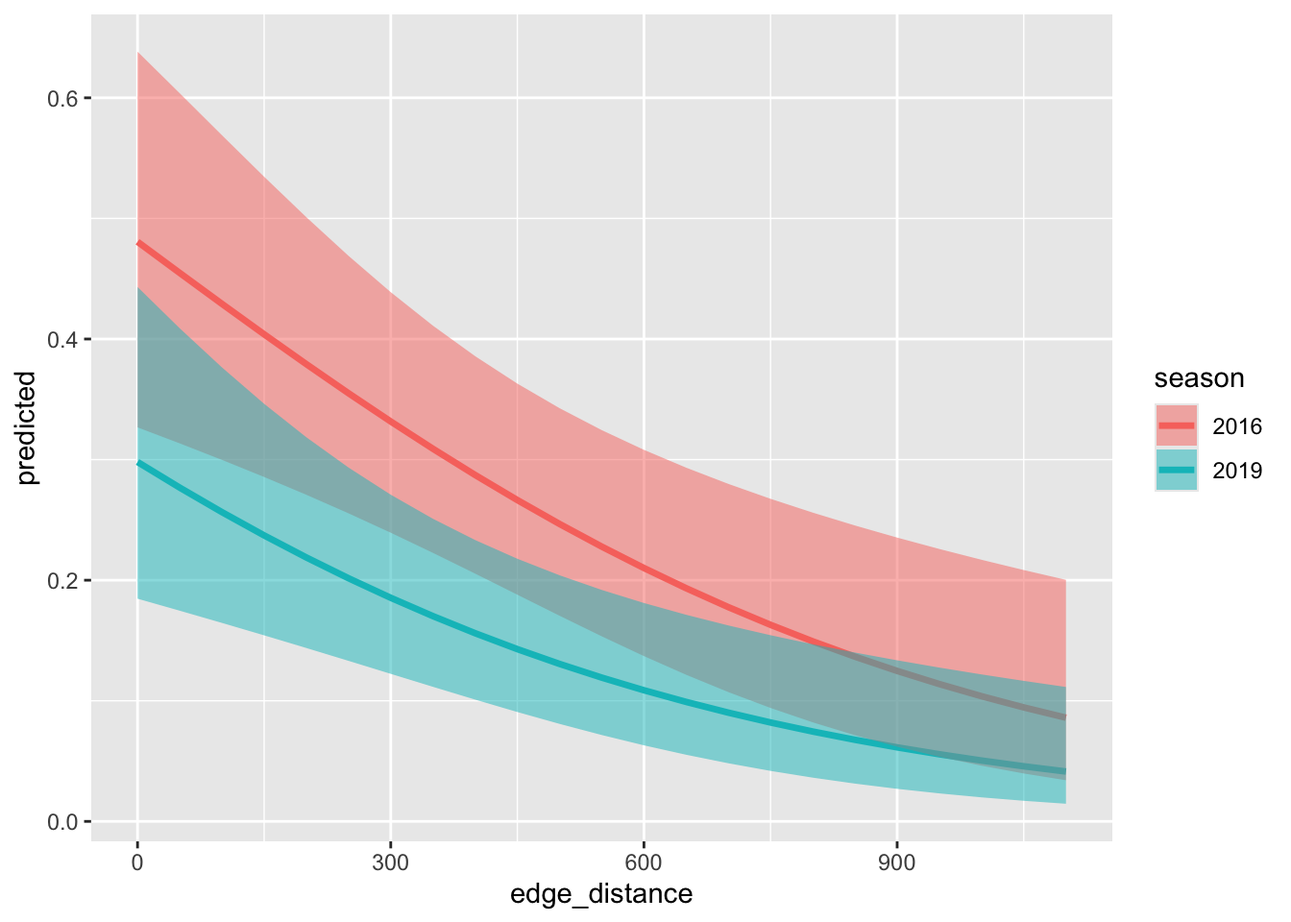
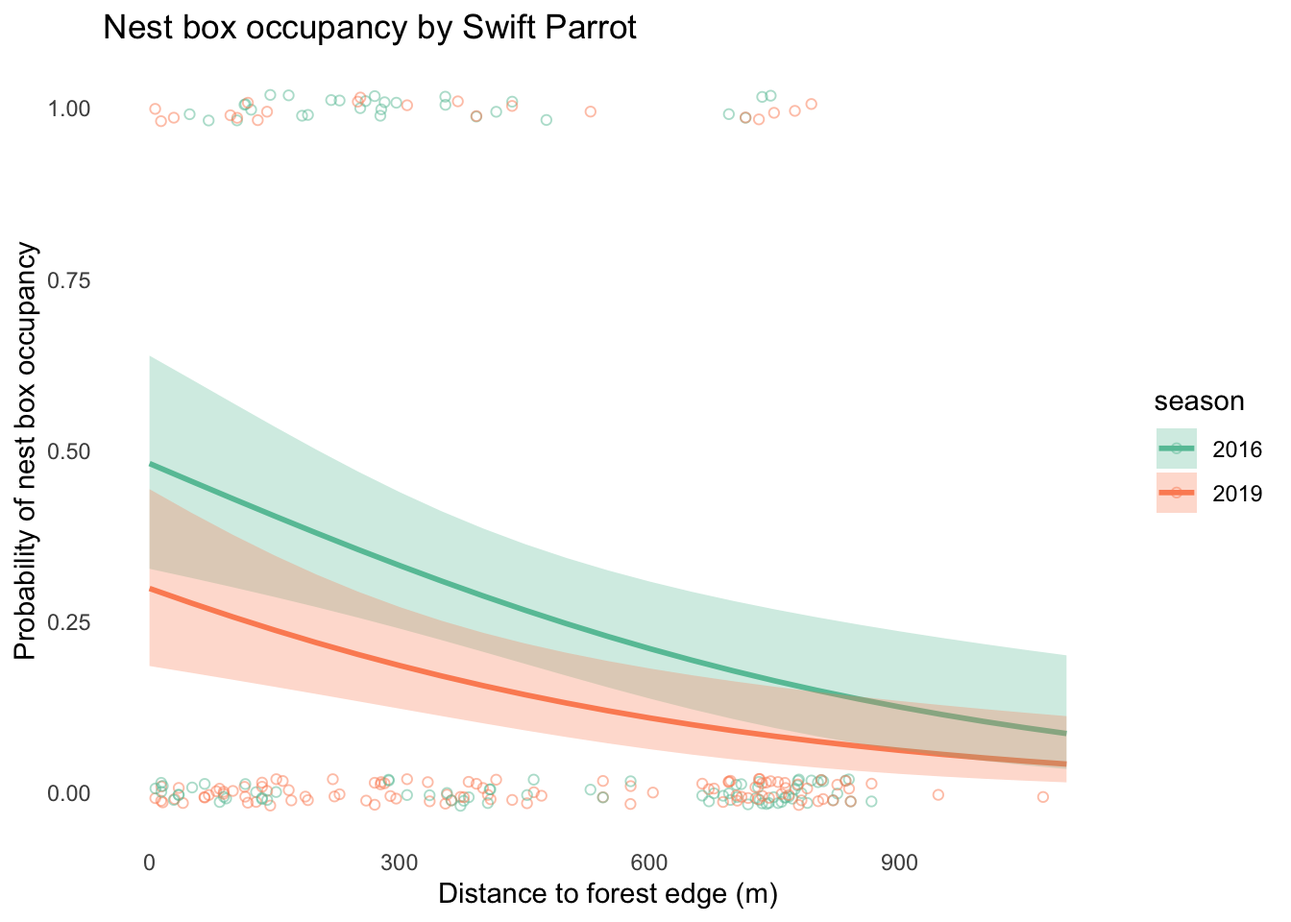
last minute edits to annotations

diff --git a/code/ES193Final.html b/code/ES193Final.html
@@ -131,9 +131,10 @@ window.Quarto = {
   <li><a href="#f." id="toc-f." class="nav-link" data-scroll-target="#f.">f.</a></li>
   <li><a href="#g." id="toc-g." class="nav-link" data-scroll-target="#g.">g.</a></li>
   <li><a href="#h." id="toc-h." class="nav-link" data-scroll-target="#h.">h.</a></li>
+  <li><a href="#i." id="toc-i." class="nav-link" data-scroll-target="#i.">i.</a></li>
+  <li><a href="#j." id="toc-j." class="nav-link" data-scroll-target="#j.">j.</a></li>
+  <li><a href="#k." id="toc-k." class="nav-link" data-scroll-target="#k.">k.</a></li>
   </ul></li>
-  <li><a href="#base-layer-ggplot" id="toc-base-layer-ggplot" class="nav-link" data-scroll-target="#base-layer-ggplot">base layer: ggplot</a></li>
-  <li><a href="#using-the-drought_exp_clean-object" id="toc-using-the-drought_exp_clean-object" class="nav-link" data-scroll-target="#using-the-drought_exp_clean-object">using the drought_exp_clean object</a></li>
   <li><a href="#problem-4.-affective-and-exploratory-visualizations" id="toc-problem-4.-affective-and-exploratory-visualizations" class="nav-link" data-scroll-target="#problem-4.-affective-and-exploratory-visualizations">Problem 4. Affective and exploratory visualizations</a>
   <ul class="collapse">
   <li><a href="#a.-3" id="toc-a.-3" class="nav-link" data-scroll-target="#a.-3">a.</a></li>
@@ -177,9 +178,9 @@ window.Quarto = {
 
 <p>repository: https://github.com/annacote2026/ENVS-193DS_spring-2025_final</p>
 <div class="cell">
-<div class="sourceCode cell-code" id="cb1"><pre class="sourceCode r code-with-copy"><code class="sourceCode r"><span id="cb1-1"><a href="#cb1-1" aria-hidden="true" tabindex="-1"></a>sst <span class="ot">&lt;-</span> <span class="fu">read.csv</span>(<span class="st">"~/github/ENVS-193DS_spring-2025_final/data/SST_update2023.csv"</span>)</span>
+<div class="sourceCode cell-code" id="cb1"><pre class="sourceCode r code-with-copy"><code class="sourceCode r"><span id="cb1-1"><a href="#cb1-1" aria-hidden="true" tabindex="-1"></a>sst <span class="ot">&lt;-</span> <span class="fu">read.csv</span>(<span class="st">"~/github/ENVS-193DS_spring-2025_final/data/SST_update2023.csv"</span>) <span class="co"># reading in sea surface temp data and storing it as sst</span></span>
 <span id="cb1-2"><a href="#cb1-2" aria-hidden="true" tabindex="-1"></a></span>
-<span id="cb1-3"><a href="#cb1-3" aria-hidden="true" tabindex="-1"></a>nest_boxes <span class="ot">&lt;-</span> <span class="fu">read.csv</span>(<span class="st">"~/github/ENVS-193DS_spring-2025_final/data/occdist.csv"</span>)</span>
+<span id="cb1-3"><a href="#cb1-3" aria-hidden="true" tabindex="-1"></a>nest_boxes <span class="ot">&lt;-</span> <span class="fu">read.csv</span>(<span class="st">"~/github/ENVS-193DS_spring-2025_final/data/occdist.csv"</span>) <span class="co"># reading in nest box data and storing it as nest_boxes</span></span>
 <span id="cb1-4"><a href="#cb1-4" aria-hidden="true" tabindex="-1"></a></span>
 <span id="cb1-5"><a href="#cb1-5" aria-hidden="true" tabindex="-1"></a><span class="fu">library</span>(tidyverse)</span>
 <span id="cb1-6"><a href="#cb1-6" aria-hidden="true" tabindex="-1"></a><span class="fu">library</span>(janitor)</span>
@@ -239,11 +240,11 @@ window.Quarto = {
 <pre><code># A tibble: 5 × 3
   year  month mean_monthly_sst
   &lt;fct&gt; &lt;ord&gt;            &lt;dbl&gt;
-1 2022  May               13.4
-2 2018  Jul               18.2
-3 2023  Nov               16.8
-4 2018  Oct               18.5
-5 2023  Mar               12.8</code></pre>
+1 2023  Sep               18.4
+2 2022  Sep               19.3
+3 2022  Jul               17.0
+4 2020  Mar               14.7
+5 2018  Mar               13.5</code></pre>
 </div>
 <div class="sourceCode cell-code" id="cb4"><pre class="sourceCode r code-with-copy"><code class="sourceCode r"><span id="cb4-1"><a href="#cb4-1" aria-hidden="true" tabindex="-1"></a><span class="fu">str</span>(sst_clean) <span class="co"># showing the structure of the data set</span></span></code><button title="Copy to Clipboard" class="code-copy-button"><i class="bi"></i></button></pre></div>
 <div class="cell-output cell-output-stdout">
@@ -368,17 +369,46 @@ window.Quarto = {
 </section>
 <section id="e." class="level2">
 <h2 class="anchored" data-anchor-id="e.">e.</h2>
+<div class="cell">
+<div class="sourceCode cell-code" id="cb7"><pre class="sourceCode r code-with-copy"><code class="sourceCode r"><span id="cb7-1"><a href="#cb7-1" aria-hidden="true" tabindex="-1"></a><span class="co"># model 0: null model</span></span>
+<span id="cb7-2"><a href="#cb7-2" aria-hidden="true" tabindex="-1"></a>model0 <span class="ot">&lt;-</span> <span class="fu">glm</span>(</span>
+<span id="cb7-3"><a href="#cb7-3" aria-hidden="true" tabindex="-1"></a>  sp <span class="sc">~</span> <span class="dv">1</span>, <span class="co"># formula</span></span>
+<span id="cb7-4"><a href="#cb7-4" aria-hidden="true" tabindex="-1"></a>  <span class="at">family =</span> binomial,</span>
+<span id="cb7-5"><a href="#cb7-5" aria-hidden="true" tabindex="-1"></a>  <span class="at">data =</span> nest_boxes_clean <span class="co"># data frame</span></span>
+<span id="cb7-6"><a href="#cb7-6" aria-hidden="true" tabindex="-1"></a>)</span>
+<span id="cb7-7"><a href="#cb7-7" aria-hidden="true" tabindex="-1"></a></span>
+<span id="cb7-8"><a href="#cb7-8" aria-hidden="true" tabindex="-1"></a><span class="co"># model 1: all predictors</span></span>
+<span id="cb7-9"><a href="#cb7-9" aria-hidden="true" tabindex="-1"></a>model1 <span class="ot">&lt;-</span> <span class="fu">glm</span>(</span>
+<span id="cb7-10"><a href="#cb7-10" aria-hidden="true" tabindex="-1"></a>  sp <span class="sc">~</span> season <span class="sc">+</span> edge_distance, <span class="co"># formula</span></span>
+<span id="cb7-11"><a href="#cb7-11" aria-hidden="true" tabindex="-1"></a>  <span class="at">family =</span> binomial,</span>
+<span id="cb7-12"><a href="#cb7-12" aria-hidden="true" tabindex="-1"></a>  <span class="at">data =</span> nest_boxes_clean <span class="co"># data frame</span></span>
+<span id="cb7-13"><a href="#cb7-13" aria-hidden="true" tabindex="-1"></a>)</span>
+<span id="cb7-14"><a href="#cb7-14" aria-hidden="true" tabindex="-1"></a></span>
+<span id="cb7-15"><a href="#cb7-15" aria-hidden="true" tabindex="-1"></a><span class="co"># model 2: season</span></span>
+<span id="cb7-16"><a href="#cb7-16" aria-hidden="true" tabindex="-1"></a>model2 <span class="ot">&lt;-</span> <span class="fu">glm</span>(</span>
+<span id="cb7-17"><a href="#cb7-17" aria-hidden="true" tabindex="-1"></a>  sp <span class="sc">~</span> season,</span>
+<span id="cb7-18"><a href="#cb7-18" aria-hidden="true" tabindex="-1"></a>  <span class="at">family =</span> binomial,</span>
+<span id="cb7-19"><a href="#cb7-19" aria-hidden="true" tabindex="-1"></a>  <span class="at">data =</span> nest_boxes_clean</span>
+<span id="cb7-20"><a href="#cb7-20" aria-hidden="true" tabindex="-1"></a>)</span>
+<span id="cb7-21"><a href="#cb7-21" aria-hidden="true" tabindex="-1"></a></span>
+<span id="cb7-22"><a href="#cb7-22" aria-hidden="true" tabindex="-1"></a><span class="co"># model 3: edge distance</span></span>
+<span id="cb7-23"><a href="#cb7-23" aria-hidden="true" tabindex="-1"></a>model3 <span class="ot">&lt;-</span> <span class="fu">glm</span>(</span>
+<span id="cb7-24"><a href="#cb7-24" aria-hidden="true" tabindex="-1"></a>  sp <span class="sc">~</span> edge_distance,</span>
+<span id="cb7-25"><a href="#cb7-25" aria-hidden="true" tabindex="-1"></a>  <span class="at">family =</span> binomial,</span>
+<span id="cb7-26"><a href="#cb7-26" aria-hidden="true" tabindex="-1"></a>  <span class="at">data =</span> nest_boxes_clean</span>
+<span id="cb7-27"><a href="#cb7-27" aria-hidden="true" tabindex="-1"></a>)</span></code><button title="Copy to Clipboard" class="code-copy-button"><i class="bi"></i></button></pre></div>
+</div>
 </section>
 <section id="f." class="level2">
 <h2 class="anchored" data-anchor-id="f.">f.</h2>
 <div class="cell">
-<div class="sourceCode cell-code" id="cb7"><pre class="sourceCode r code-with-copy"><code class="sourceCode r"><span id="cb7-1"><a href="#cb7-1" aria-hidden="true" tabindex="-1"></a>res0 <span class="ot">&lt;-</span> <span class="fu">simulateResiduals</span>(model0) <span class="co"># simulate residuals</span></span>
-<span id="cb7-2"><a href="#cb7-2" aria-hidden="true" tabindex="-1"></a>res1 <span class="ot">&lt;-</span> <span class="fu">simulateResiduals</span>(model1)</span>
-<span id="cb7-3"><a href="#cb7-3" aria-hidden="true" tabindex="-1"></a>res2 <span class="ot">&lt;-</span> <span class="fu">simulateResiduals</span>(model2)</span>
-<span id="cb7-4"><a href="#cb7-4" aria-hidden="true" tabindex="-1"></a>res3 <span class="ot">&lt;-</span> <span class="fu">simulateResiduals</span>(model3)</span>
-<span id="cb7-5"><a href="#cb7-5" aria-hidden="true" tabindex="-1"></a></span>
-<span id="cb7-6"><a href="#cb7-6" aria-hidden="true" tabindex="-1"></a><span class="fu">par</span>(<span class="at">mfrow =</span> <span class="fu">c</span>(<span class="dv">2</span>,<span class="dv">2</span>))</span>
-<span id="cb7-7"><a href="#cb7-7" aria-hidden="true" tabindex="-1"></a><span class="fu">plot</span>(res0)</span></code><button title="Copy to Clipboard" class="code-copy-button"><i class="bi"></i></button></pre></div>
+<div class="sourceCode cell-code" id="cb8"><pre class="sourceCode r code-with-copy"><code class="sourceCode r"><span id="cb8-1"><a href="#cb8-1" aria-hidden="true" tabindex="-1"></a>res0 <span class="ot">&lt;-</span> <span class="fu">simulateResiduals</span>(model0) <span class="co"># simulate residuals</span></span>
+<span id="cb8-2"><a href="#cb8-2" aria-hidden="true" tabindex="-1"></a>res1 <span class="ot">&lt;-</span> <span class="fu">simulateResiduals</span>(model1)</span>
+<span id="cb8-3"><a href="#cb8-3" aria-hidden="true" tabindex="-1"></a>res2 <span class="ot">&lt;-</span> <span class="fu">simulateResiduals</span>(model2)</span>
+<span id="cb8-4"><a href="#cb8-4" aria-hidden="true" tabindex="-1"></a>res3 <span class="ot">&lt;-</span> <span class="fu">simulateResiduals</span>(model3)</span>
+<span id="cb8-5"><a href="#cb8-5" aria-hidden="true" tabindex="-1"></a></span>
+<span id="cb8-6"><a href="#cb8-6" aria-hidden="true" tabindex="-1"></a><span class="fu">par</span>(<span class="at">mfrow =</span> <span class="fu">c</span>(<span class="dv">2</span>,<span class="dv">2</span>))</span>
+<span id="cb8-7"><a href="#cb8-7" aria-hidden="true" tabindex="-1"></a><span class="fu">plot</span>(res0)</span></code><button title="Copy to Clipboard" class="code-copy-button"><i class="bi"></i></button></pre></div>
 <div class="cell-output-display">
 <div>
 <figure class="figure">
@@ -386,7 +416,7 @@ window.Quarto = {
 </figure>
 </div>
 </div>
-<div class="sourceCode cell-code" id="cb8"><pre class="sourceCode r code-with-copy"><code class="sourceCode r"><span id="cb8-1"><a href="#cb8-1" aria-hidden="true" tabindex="-1"></a><span class="fu">plot</span>(res1)</span></code><button title="Copy to Clipboard" class="code-copy-button"><i class="bi"></i></button></pre></div>
+<div class="sourceCode cell-code" id="cb9"><pre class="sourceCode r code-with-copy"><code class="sourceCode r"><span id="cb9-1"><a href="#cb9-1" aria-hidden="true" tabindex="-1"></a><span class="fu">plot</span>(res1)</span></code><button title="Copy to Clipboard" class="code-copy-button"><i class="bi"></i></button></pre></div>
 <div class="cell-output-display">
 <div>
 <figure class="figure">
@@ -394,7 +424,7 @@ window.Quarto = {
 </figure>
 </div>
 </div>
-<div class="sourceCode cell-code" id="cb9"><pre class="sourceCode r code-with-copy"><code class="sourceCode r"><span id="cb9-1"><a href="#cb9-1" aria-hidden="true" tabindex="-1"></a><span class="fu">plot</span>(res2)</span></code><button title="Copy to Clipboard" class="code-copy-button"><i class="bi"></i></button></pre></div>
+<div class="sourceCode cell-code" id="cb10"><pre class="sourceCode r code-with-copy"><code class="sourceCode r"><span id="cb10-1"><a href="#cb10-1" aria-hidden="true" tabindex="-1"></a><span class="fu">plot</span>(res2)</span></code><button title="Copy to Clipboard" class="code-copy-button"><i class="bi"></i></button></pre></div>
 <div class="cell-output-display">
 <div>
 <figure class="figure">
@@ -402,7 +432,7 @@ window.Quarto = {
 </figure>
 </div>
 </div>
-<div class="sourceCode cell-code" id="cb10"><pre class="sourceCode r code-with-copy"><code class="sourceCode r"><span id="cb10-1"><a href="#cb10-1" aria-hidden="true" tabindex="-1"></a><span class="fu">plot</span>(res3) </span></code><button title="Copy to Clipboard" class="code-copy-button"><i class="bi"></i></button></pre></div>
+<div class="sourceCode cell-code" id="cb11"><pre class="sourceCode r code-with-copy"><code class="sourceCode r"><span id="cb11-1"><a href="#cb11-1" aria-hidden="true" tabindex="-1"></a><span class="fu">plot</span>(res3) </span></code><button title="Copy to Clipboard" class="code-copy-button"><i class="bi"></i></button></pre></div>
 <div class="cell-output-display">
 <div>
 <figure class="figure">
@@ -410,18 +440,18 @@ window.Quarto = {
 </figure>
 </div>
 </div>
-<div class="sourceCode cell-code" id="cb11"><pre class="sourceCode r code-with-copy"><code class="sourceCode r"><span id="cb11-1"><a href="#cb11-1" aria-hidden="true" tabindex="-1"></a><span class="co"># residuals look decent for all</span></span></code><button title="Copy to Clipboard" class="code-copy-button"><i class="bi"></i></button></pre></div>
+<div class="sourceCode cell-code" id="cb12"><pre class="sourceCode r code-with-copy"><code class="sourceCode r"><span id="cb12-1"><a href="#cb12-1" aria-hidden="true" tabindex="-1"></a><span class="co"># residuals look decent for all</span></span></code><button title="Copy to Clipboard" class="code-copy-button"><i class="bi"></i></button></pre></div>
 </div>
 </section>
 <section id="g." class="level2">
 <h2 class="anchored" data-anchor-id="g.">g.</h2>
 <div class="cell">
-<div class="sourceCode cell-code" id="cb12"><pre class="sourceCode r code-with-copy"><code class="sourceCode r"><span id="cb12-1"><a href="#cb12-1" aria-hidden="true" tabindex="-1"></a><span class="fu">AICc</span>(model1, <span class="co"># best model: season + distance to forest edge</span></span>
-<span id="cb12-2"><a href="#cb12-2" aria-hidden="true" tabindex="-1"></a>     model2,</span>
-<span id="cb12-3"><a href="#cb12-3" aria-hidden="true" tabindex="-1"></a>     model3,</span>
-<span id="cb12-4"><a href="#cb12-4" aria-hidden="true" tabindex="-1"></a>     model0) <span class="sc">|&gt;</span> </span>
-<span id="cb12-5"><a href="#cb12-5" aria-hidden="true" tabindex="-1"></a>  <span class="co"># arranging output in descending order of AIC</span></span>
-<span id="cb12-6"><a href="#cb12-6" aria-hidden="true" tabindex="-1"></a>  <span class="fu">arrange</span>(AICc)</span></code><button title="Copy to Clipboard" class="code-copy-button"><i class="bi"></i></button></pre></div>
+<div class="sourceCode cell-code" id="cb13"><pre class="sourceCode r code-with-copy"><code class="sourceCode r"><span id="cb13-1"><a href="#cb13-1" aria-hidden="true" tabindex="-1"></a><span class="fu">AICc</span>(model1, <span class="co"># best model: season + distance to forest edge</span></span>
+<span id="cb13-2"><a href="#cb13-2" aria-hidden="true" tabindex="-1"></a>     model2,</span>
+<span id="cb13-3"><a href="#cb13-3" aria-hidden="true" tabindex="-1"></a>     model3,</span>
+<span id="cb13-4"><a href="#cb13-4" aria-hidden="true" tabindex="-1"></a>     model0) <span class="sc">|&gt;</span> </span>
+<span id="cb13-5"><a href="#cb13-5" aria-hidden="true" tabindex="-1"></a>  <span class="co"># arranging output in descending order of AIC</span></span>
+<span id="cb13-6"><a href="#cb13-6" aria-hidden="true" tabindex="-1"></a>  <span class="fu">arrange</span>(AICc)</span></code><button title="Copy to Clipboard" class="code-copy-button"><i class="bi"></i></button></pre></div>
 <div class="cell-output cell-output-stdout">
 <pre><code>       df     AICc
 model1  3 226.3133
@@ -435,31 +465,48 @@ model0  1 238.8318</code></pre>
 <section id="h." class="level2">
 <h2 class="anchored" data-anchor-id="h.">h.</h2>
 <div class="cell">
-<div class="sourceCode cell-code" id="cb14"><pre class="sourceCode r code-with-copy"><code class="sourceCode r"><span id="cb14-1"><a href="#cb14-1" aria-hidden="true" tabindex="-1"></a>model1_predictions <span class="ot">&lt;-</span> <span class="fu">ggpredict</span>(</span>
-<span id="cb14-2"><a href="#cb14-2" aria-hidden="true" tabindex="-1"></a>  model1, <span class="co"># model object</span></span>
-<span id="cb14-3"><a href="#cb14-3" aria-hidden="true" tabindex="-1"></a>  <span class="at">terms =</span> <span class="fu">c</span>(<span class="st">"edge_distance"</span>, <span class="st">"season"</span>) <span class="co"># predictors</span></span>
-<span id="cb14-4"><a href="#cb14-4" aria-hidden="true" tabindex="-1"></a>) <span class="sc">|&gt;</span> </span>
-<span id="cb14-5"><a href="#cb14-5" aria-hidden="true" tabindex="-1"></a>  <span class="co"># renaming the columns</span></span>
-<span id="cb14-6"><a href="#cb14-6" aria-hidden="true" tabindex="-1"></a>  <span class="fu">rename</span>(<span class="at">edge_distance =</span> x,</span>
-<span id="cb14-7"><a href="#cb14-7" aria-hidden="true" tabindex="-1"></a>         <span class="at">season =</span> group,</span>
-<span id="cb14-8"><a href="#cb14-8" aria-hidden="true" tabindex="-1"></a>         <span class="at">predicted =</span> predicted)</span>
-<span id="cb14-9"><a href="#cb14-9" aria-hidden="true" tabindex="-1"></a></span>
-<span id="cb14-10"><a href="#cb14-10" aria-hidden="true" tabindex="-1"></a><span class="fu">ggplot</span>() <span class="sc">+</span></span>
-<span id="cb14-11"><a href="#cb14-11" aria-hidden="true" tabindex="-1"></a>  <span class="co"># Add prediction lines</span></span>
-<span id="cb14-12"><a href="#cb14-12" aria-hidden="true" tabindex="-1"></a>  <span class="fu">geom_line</span>(<span class="at">data =</span> model1_predictions,</span>
-<span id="cb14-13"><a href="#cb14-13" aria-hidden="true" tabindex="-1"></a>            <span class="fu">aes</span>(<span class="at">x =</span> edge_distance, </span>
-<span id="cb14-14"><a href="#cb14-14" aria-hidden="true" tabindex="-1"></a>                <span class="at">y =</span> predicted, </span>
-<span id="cb14-15"><a href="#cb14-15" aria-hidden="true" tabindex="-1"></a>                <span class="at">color =</span> season),</span>
-<span id="cb14-16"><a href="#cb14-16" aria-hidden="true" tabindex="-1"></a>            <span class="at">size =</span> <span class="fl">1.2</span>) <span class="sc">+</span></span>
-<span id="cb14-17"><a href="#cb14-17" aria-hidden="true" tabindex="-1"></a>  </span>
-<span id="cb14-18"><a href="#cb14-18" aria-hidden="true" tabindex="-1"></a>  <span class="co"># Add confidence ribbon</span></span>
-<span id="cb14-19"><a href="#cb14-19" aria-hidden="true" tabindex="-1"></a>  <span class="fu">geom_ribbon</span>(<span class="at">data =</span> model1_predictions,</span>
-<span id="cb14-20"><a href="#cb14-20" aria-hidden="true" tabindex="-1"></a>              <span class="fu">aes</span>(<span class="at">x =</span> edge_distance, </span>
-<span id="cb14-21"><a href="#cb14-21" aria-hidden="true" tabindex="-1"></a>                  <span class="at">ymin =</span> conf.low, </span>
-<span id="cb14-22"><a href="#cb14-22" aria-hidden="true" tabindex="-1"></a>                  <span class="at">ymax =</span> conf.high, </span>
-<span id="cb14-23"><a href="#cb14-23" aria-hidden="true" tabindex="-1"></a>                  <span class="at">fill =</span> season),</span>
-<span id="cb14-24"><a href="#cb14-24" aria-hidden="true" tabindex="-1"></a>              <span class="at">alpha =</span> <span class="fl">0.5</span>,</span>
-<span id="cb14-25"><a href="#cb14-25" aria-hidden="true" tabindex="-1"></a>              <span class="at">color =</span> <span class="cn">NA</span>) </span></code><button title="Copy to Clipboard" class="code-copy-button"><i class="bi"></i></button></pre></div>
+<div class="sourceCode cell-code" id="cb15"><pre class="sourceCode r code-with-copy"><code class="sourceCode r"><span id="cb15-1"><a href="#cb15-1" aria-hidden="true" tabindex="-1"></a>model1_predictions <span class="ot">&lt;-</span> <span class="fu">ggpredict</span>(</span>
+<span id="cb15-2"><a href="#cb15-2" aria-hidden="true" tabindex="-1"></a>  model1, <span class="co"># model object</span></span>
+<span id="cb15-3"><a href="#cb15-3" aria-hidden="true" tabindex="-1"></a>  <span class="at">terms =</span> <span class="fu">c</span>(<span class="st">"edge_distance"</span>, <span class="st">"season"</span>) <span class="co"># predictors</span></span>
+<span id="cb15-4"><a href="#cb15-4" aria-hidden="true" tabindex="-1"></a>) <span class="sc">|&gt;</span> </span>
+<span id="cb15-5"><a href="#cb15-5" aria-hidden="true" tabindex="-1"></a>  <span class="fu">rename</span>(<span class="at">edge_distance =</span> x, <span class="co"># renaming the columns</span></span>
+<span id="cb15-6"><a href="#cb15-6" aria-hidden="true" tabindex="-1"></a>         <span class="at">season =</span> group,</span>
+<span id="cb15-7"><a href="#cb15-7" aria-hidden="true" tabindex="-1"></a>         <span class="at">predicted =</span> predicted)</span>
+<span id="cb15-8"><a href="#cb15-8" aria-hidden="true" tabindex="-1"></a></span>
+<span id="cb15-9"><a href="#cb15-9" aria-hidden="true" tabindex="-1"></a>model1_predictions<span class="sc">$</span>season <span class="ot">&lt;-</span> <span class="fu">as.factor</span>(model1_predictions<span class="sc">$</span>season)</span>
+<span id="cb15-10"><a href="#cb15-10" aria-hidden="true" tabindex="-1"></a>nest_boxes_clean<span class="sc">$</span>season <span class="ot">&lt;-</span> <span class="fu">as.factor</span>(nest_boxes_clean<span class="sc">$</span>season)</span>
+<span id="cb15-11"><a href="#cb15-11" aria-hidden="true" tabindex="-1"></a></span>
+<span id="cb15-12"><a href="#cb15-12" aria-hidden="true" tabindex="-1"></a><span class="fu">ggplot</span>() <span class="sc">+</span> <span class="co"># create graph</span></span>
+<span id="cb15-13"><a href="#cb15-13" aria-hidden="true" tabindex="-1"></a>  <span class="fu">geom_line</span>(<span class="at">data =</span> model1_predictions, <span class="co"># add prediction lines</span></span>
+<span id="cb15-14"><a href="#cb15-14" aria-hidden="true" tabindex="-1"></a>            <span class="fu">aes</span>(<span class="at">x =</span> edge_distance, <span class="co"># set variables</span></span>
+<span id="cb15-15"><a href="#cb15-15" aria-hidden="true" tabindex="-1"></a>                <span class="at">y =</span> predicted, </span>
+<span id="cb15-16"><a href="#cb15-16" aria-hidden="true" tabindex="-1"></a>                <span class="at">color =</span> season),</span>
+<span id="cb15-17"><a href="#cb15-17" aria-hidden="true" tabindex="-1"></a>            <span class="at">size =</span> <span class="fl">1.0</span>) <span class="sc">+</span> <span class="co"># set line width</span></span>
+<span id="cb15-18"><a href="#cb15-18" aria-hidden="true" tabindex="-1"></a>  </span>
+<span id="cb15-19"><a href="#cb15-19" aria-hidden="true" tabindex="-1"></a>  <span class="fu">geom_ribbon</span>(<span class="at">data =</span> model1_predictions, <span class="co"># add 95% confidence interval</span></span>
+<span id="cb15-20"><a href="#cb15-20" aria-hidden="true" tabindex="-1"></a>              <span class="fu">aes</span>(<span class="at">x =</span> edge_distance, <span class="co"># x is distance to forest edge</span></span>
+<span id="cb15-21"><a href="#cb15-21" aria-hidden="true" tabindex="-1"></a>                  <span class="at">ymin =</span> conf.low, </span>
+<span id="cb15-22"><a href="#cb15-22" aria-hidden="true" tabindex="-1"></a>                  <span class="at">ymax =</span> conf.high, </span>
+<span id="cb15-23"><a href="#cb15-23" aria-hidden="true" tabindex="-1"></a>                  <span class="at">fill =</span> season), <span class="co"># fill by season</span></span>
+<span id="cb15-24"><a href="#cb15-24" aria-hidden="true" tabindex="-1"></a>              <span class="at">alpha =</span> <span class="fl">0.3</span>, <span class="co"># 30% transparency</span></span>
+<span id="cb15-25"><a href="#cb15-25" aria-hidden="true" tabindex="-1"></a>              <span class="at">color =</span> <span class="cn">NA</span>) <span class="sc">+</span></span>
+<span id="cb15-26"><a href="#cb15-26" aria-hidden="true" tabindex="-1"></a>  <span class="fu">geom_jitter</span>(<span class="at">data =</span> nest_boxes_clean,</span>
+<span id="cb15-27"><a href="#cb15-27" aria-hidden="true" tabindex="-1"></a>              <span class="fu">aes</span>(<span class="at">x =</span> edge_distance, <span class="at">y =</span> sp, <span class="at">color =</span> season),</span>
+<span id="cb15-28"><a href="#cb15-28" aria-hidden="true" tabindex="-1"></a>              <span class="at">width =</span> <span class="fl">0.2</span>, <span class="at">height =</span> <span class="fl">0.02</span>, <span class="at">alpha =</span> <span class="fl">0.5</span>, <span class="at">shape =</span> <span class="dv">21</span>) <span class="sc">+</span></span>
+<span id="cb15-29"><a href="#cb15-29" aria-hidden="true" tabindex="-1"></a>  </span>
+<span id="cb15-30"><a href="#cb15-30" aria-hidden="true" tabindex="-1"></a>  <span class="fu">labs</span>(<span class="at">title =</span> <span class="st">"Nest box occupancy by Swift Parrot"</span>,</span>
+<span id="cb15-31"><a href="#cb15-31" aria-hidden="true" tabindex="-1"></a>       <span class="at">x =</span> <span class="st">"Distance to forest edge (m)"</span>, <span class="co"># label axes and legend</span></span>
+<span id="cb15-32"><a href="#cb15-32" aria-hidden="true" tabindex="-1"></a>       <span class="at">y =</span> <span class="st">"Probability of nest box occupancy"</span>,</span>
+<span id="cb15-33"><a href="#cb15-33" aria-hidden="true" tabindex="-1"></a>       <span class="at">color =</span> <span class="st">"season"</span>,</span>
+<span id="cb15-34"><a href="#cb15-34" aria-hidden="true" tabindex="-1"></a>       <span class="at">fill =</span> <span class="st">"season"</span>) <span class="sc">+</span></span>
+<span id="cb15-35"><a href="#cb15-35" aria-hidden="true" tabindex="-1"></a>  </span>
+<span id="cb15-36"><a href="#cb15-36" aria-hidden="true" tabindex="-1"></a>  <span class="fu">theme_minimal</span>() <span class="sc">+</span> <span class="co"># make clean theme</span></span>
+<span id="cb15-37"><a href="#cb15-37" aria-hidden="true" tabindex="-1"></a>  <span class="fu">theme</span>(</span>
+<span id="cb15-38"><a href="#cb15-38" aria-hidden="true" tabindex="-1"></a>    <span class="at">panel.grid.major =</span> <span class="fu">element_blank</span>(), <span class="co"># remove panel grids</span></span>
+<span id="cb15-39"><a href="#cb15-39" aria-hidden="true" tabindex="-1"></a>    <span class="at">panel.grid.minor =</span> <span class="fu">element_blank</span>() </span>
+<span id="cb15-40"><a href="#cb15-40" aria-hidden="true" tabindex="-1"></a>  ) <span class="sc">+</span></span>
+<span id="cb15-41"><a href="#cb15-41" aria-hidden="true" tabindex="-1"></a>   <span class="fu">scale_color_brewer</span>(<span class="at">palette =</span> <span class="st">"Set2"</span>) <span class="sc">+</span> <span class="co"># change color palette</span></span>
+<span id="cb15-42"><a href="#cb15-42" aria-hidden="true" tabindex="-1"></a>  <span class="fu">scale_fill_brewer</span>(<span class="at">palette =</span> <span class="st">"Set2"</span>) <span class="co"># change color palette</span></span></code><button title="Copy to Clipboard" class="code-copy-button"><i class="bi"></i></button></pre></div>
 <div class="cell-output-display">
 <div>
 <figure class="figure">
@@ -468,17 +515,43 @@ model0  1 238.8318</code></pre>
 </div>
 </div>
 </div>
-<p>model1_predictions &lt;- ggpredict( model1, # model object terms = c(“edge_distance”, “season”) # predictors ) |&gt; # renaming the columns rename(edge_distance = x, season = group, predicted = predicted)</p>
-<p>#| fig-width: 12 #| fig-height: 4</p>
 </section>
+<section id="i." class="level2">
+<h2 class="anchored" data-anchor-id="i.">i.</h2>
+<p>Figure 1. Predicted probabilities of nest box occupancy by Swift Parrots as an additive effect of distance to the forest edge, and the year of the study. 2016 represents the nesting season when the nest boxes were newly deployed, while for 2019’s breeding season, the nest boxes had been in place for three years. Lines represent predictions from a generalized linear model with a binomial error distribution. Shaded areas around each line indicate 95% confidence intervals for the predictions, and jittered points display raw observational data. Data: (Stojanovic, Dejan et al.&nbsp;(2021). Do nest boxes breed the target species or its competitors? A case study of a critically endangered bird [Dataset]. Dryad. https://doi.org/10.5061/dryad.83bk3j9sb)</p>
 </section>
-<section id="base-layer-ggplot" class="level1">
-<h1>base layer: ggplot</h1>
+<section id="j." class="level2">
+<h2 class="anchored" data-anchor-id="j.">j.</h2>
+<div class="cell">
+<div class="sourceCode cell-code" id="cb16"><pre class="sourceCode r code-with-copy"><code class="sourceCode r"><span id="cb16-1"><a href="#cb16-1" aria-hidden="true" tabindex="-1"></a>predictions <span class="ot">&lt;-</span> <span class="fu">ggpredict</span>(</span>
+<span id="cb16-2"><a href="#cb16-2" aria-hidden="true" tabindex="-1"></a>  model1,   <span class="co"># model object</span></span>
+<span id="cb16-3"><a href="#cb16-3" aria-hidden="true" tabindex="-1"></a>  <span class="at">terms =</span> <span class="fu">c</span>(<span class="st">"edge_distance [0,900]"</span>, <span class="st">"season"</span>)  <span class="co"># specifying edge distances</span></span>
+<span id="cb16-4"><a href="#cb16-4" aria-hidden="true" tabindex="-1"></a>)</span>
+<span id="cb16-5"><a href="#cb16-5" aria-hidden="true" tabindex="-1"></a></span>
+<span id="cb16-6"><a href="#cb16-6" aria-hidden="true" tabindex="-1"></a><span class="fu">print</span>(predictions)</span></code><button title="Copy to Clipboard" class="code-copy-button"><i class="bi"></i></button></pre></div>
+<div class="cell-output cell-output-stdout">
+<pre><code># Predicted probabilities of sp
+
+season: 2016
+
+edge_distance | Predicted |     95% CI
+--------------------------------------
+            0 |      0.48 | 0.33, 0.64
+          900 |      0.12 | 0.06, 0.24
+
+season: 2019
+
+edge_distance | Predicted |     95% CI
+--------------------------------------
+            0 |      0.30 | 0.18, 0.44
+          900 |      0.06 | 0.03, 0.13</code></pre>
+</div>
+</div>
 </section>
-<section id="using-the-drought_exp_clean-object" class="level1">
-<h1>using the drought_exp_clean object</h1>
-<p>ggplot(data = model1_predictions, aes(x = edge_distance, y = predicted, color = season)) + # first layer: jitter showing individual observations geom_jitter(width = 0.1, height = 0, shape = 21, alpha = 0.6) + geom_line(size = 1.2)</p>
-<p># manually setting colors scale_color_manual(values = c(“Well watered” = ww_col, “Drought stressed” = ds_col)) + # wrapping x-axis labels scale_x_discrete(labels = label_wrap(10)) + # creating different panels for each species facet_wrap(~species_name, nrow = 1) + # labelling x- and y-axis labs(x = “Water treatment”, y = “Total mass (g)”) + # taking out the legend theme(legend.position = “none”)</p>
+<section id="k." class="level2">
+<h2 class="anchored" data-anchor-id="k.">k.</h2>
+<p>Figure 1 shows that the predicted probability of Swift Parrot nest box occupancy is highest near the forest edge (0 m) and decreases as distance from the edge increases. According to the model predictions, nest box occupancy at 0 m is substantially higher during both seasons compared to occupancy at 900 m. For example, during 2019 the probability of occupancy at the edge (0 m) is five times what it is at 900 m (0.30 versus 0.06). This trend suggests a strong preference for nesting near forest edges, likely due their nomadic nature, and therefor their lack of tendency to settle deep in the forest. Additionally, Swift Parrots may favor edge habitats because they offer the most available nesting habitat with reduced competition, as Tree Martins have been observed to nest more frequently deeper into the forest and further from the edge. Edge habitats overall likely provide a balance of open space for flight and nearby vegetation for protection and food, which enhances nesting success.</p>
+</section>
 </section>
 <section id="problem-4.-affective-and-exploratory-visualizations" class="level1">
 <h1>Problem 4. Affective and exploratory visualizations</h1>
